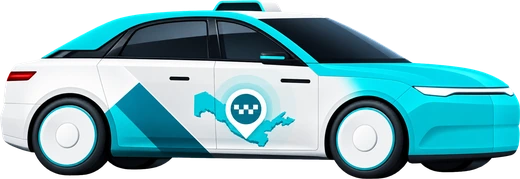
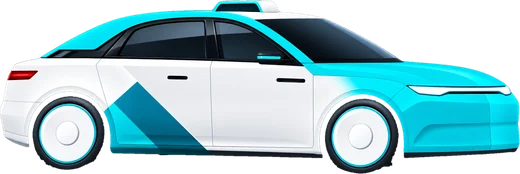
Web: Telegram groups carousel on the landing, new taxi car art
- New section between "Random mijoz" and FAQ: official channel and route groups
  (Namangan, Samarqand, Andijon, Farg'ona <-> Toshkent), each card showing a
  landmark of both cities (Wikimedia Commons, credited under the section).
  Cards drift as an endless strip (rAF + transform), ease to a stop on hover,
  can be dragged, stepped with arrows and reached by keyboard.
- Testimonials hidden for now (demo reviews) behind SHOW_TESTIMONIALS.
- taxi-car.png/.webp/-sm.webp replaced with the new car render (background cut out).

diff --git a/apps/web/src/components/landing/TelegramCommunities.jsx b/apps/web/src/components/landing/TelegramCommunities.jsx
@@ -1,0 +1,328 @@
+import { useEffect, useRef, useState } from 'react'
+import { ArrowLeft, ArrowRight, ArrowUpRight, Megaphone, Send, Users } from 'lucide-react'
+import { t } from '../../i18n'
+
+/* Telegram guruh va kanallarimiz — har bir karta yo‘nalishning ikki shahridagi mashhur joy
+   rasmi bilan (yuqorida — qayerdan, pastda — qayerga). Har bir kartada Toshkent boshqa joy bilan.
+   Kartalar to‘xtovsiz suzuvchi lenta: ro‘yxat ikki nusxada, siljish rAF orqali transform bilan
+   (subpiksel — silliq), bir nusxa o‘tganda boshiga sezilmasdan qaytadi. Sichqoncha ustiga kelsa
+   asta to‘xtaydi; barmoq/sichqoncha bilan surish va ← → tugmalari ishlaydi.
+   Rasmlar: Wikimedia Commons (CC0 / CC BY / CC BY-SA) — mualliflar bo‘lim ostida ko‘rsatiladi. */
+const PLACES = {
+  tv: { src: '/routes/toshkent-teleminora.webp', label: 'Toshkent teleminorasi', credit: 'Nikol Khagay (CC BY-SA 4.0)' },
+  nest: { src: '/routes/toshkent-nest-one.webp', label: 'Nest One, Toshkent Siti', credit: 'ShNajimova (CC BY 4.0)' },
+  imom: { src: '/routes/toshkent-hazrati-imom.webp', label: 'Hazrati Imom majmuasi', credit: 'Bgag (CC0)' },
+  minor: { src: '/routes/toshkent-minor.webp', label: 'Minor masjidi', credit: 'Yuriy Pavlovich (CC0)' },
+  chorsu: { src: '/routes/toshkent-chorsu.webp', label: 'Chorsu bozori', credit: 'Adam Harangozó (CC BY-SA 4.0)' },
+  citypark: { src: '/routes/toshkent-siti-bogi.webp', label: 'Toshkent Siti bog‘i', credit: 'Mysportedit (CC BY-SA 4.0)' },
+  registon: { src: '/routes/samarqand-registon.webp', label: 'Registon maydoni', credit: 'Gustavo Jeronimo (CC BY 2.0)' },
+  poikalon: { src: '/routes/buxoro-poi-kalon.webp', label: 'Poi Kalon, Buxoro', credit: 'Fulvio Spada (CC BY-SA 2.0)' },
+  namangan: { src: '/routes/namangan-mulla-qirgiz.webp', label: 'Mulla Qirg‘iz madrasasi', credit: 'Ziqo (CC BY-SA 4.0)' },
+  andijon: { src: '/routes/andijon-jome.webp', label: 'Devonaboy jome masjidi', credit: 'Petar Milošević (CC BY-SA 4.0)' },
+  bobur: { src: '/routes/andijon-bobur-bogi.webp', label: 'Bobur bog‘i, Andijon', credit: 'Arina Pan (CC BY-SA 4.0)' },
+  fargona: { src: '/routes/fargona-xudoyorxon.webp', label: 'Xudoyorxon o‘rdasi, Qo‘qon', credit: 'Bobyrr (CC BY-SA 4.0)' },
+}
+
+const COMMUNITIES = [
+  { kind: 'channel', handle: 'taxiline_uzbekistan', title: 'TaxiLine rasmiy kanali', top: 'poikalon', bottom: 'citypark' },
+  { kind: 'group', handle: 'namangan_toshkent_taxiline', from: 'Namangan', to: 'Toshkent', top: 'namangan', bottom: 'tv' },
+  { kind: 'group', handle: 'samarqand_toshkent_taxiline', from: 'Samarqand', to: 'Toshkent', top: 'registon', bottom: 'nest' },
+  { kind: 'group', handle: 'andijon_toshkent_taxiline', from: 'Andijon', to: 'Toshkent', top: 'andijon', bottom: 'imom' },
+  { kind: 'group', handle: 'toshkent_andijon_taxiline', from: 'Toshkent', to: 'Andijon', top: 'chorsu', bottom: 'bobur' },
+  { kind: 'group', handle: 'fargona_toshkent_taxiline', from: 'Farg‘ona', to: 'Toshkent', top: 'fargona', bottom: 'minor' },
+]
+
+// Rasmdagidek "suyuq" shakllar: yuqori rasmning o‘ng-pastki burchagi, pastki rasmning
+// chap-yuqori burchagi yumshoq egri bilan kesilgan — ikkalasi bir-biriga oqib o‘tadi.
+const CLIP_TOP = 'tl-clip-top'
+const CLIP_BOTTOM = 'tl-clip-bottom'
+
+function ClipDefs() {
+  return (
+    <svg aria-hidden="true" width="0" height="0" className="absolute">
+      <defs>
+        <clipPath id={CLIP_TOP} clipPathUnits="objectBoundingBox">
+          <path d="M0.07,0 H0.93 Q1,0 1,0.06 V0.5 C1,0.68 0.9,0.74 0.74,0.78 C0.56,0.82 0.5,1 0.3,1 H0.07 Q0,1 0,0.94 V0.06 Q0,0 0.07,0 Z" />
+        </clipPath>
+        <clipPath id={CLIP_BOTTOM} clipPathUnits="objectBoundingBox">
+          <path d="M0.93,1 H0.07 Q0,1 0,0.94 V0.5 C0,0.32 0.1,0.26 0.26,0.22 C0.44,0.18 0.5,0 0.7,0 H0.93 Q1,0 1,0.06 V0.94 Q1,1 0.93,1 Z" />
+        </clipPath>
+      </defs>
+    </svg>
+  )
+}
+
+function Card({ item, index, clone }) {
+  const top = PLACES[item.top]
+  const bottom = PLACES[item.bottom]
+  const official = item.kind === 'channel'
+  const title = official ? t(item.title) : `${t(item.from)} — ${t(item.to)}`
+  const Icon = official ? Megaphone : Users
+
+  return (
+    <a
+      href={`https://t.me/${item.handle}`}
+      target="_blank"
+      rel="noopener noreferrer"
+      draggable={false}
+      // Lentaning ikkinchi nusxasi faqat bezak: ekran o‘quvchi va Tab uni o‘tkazib yuboradi.
+      aria-hidden={clone ? 'true' : undefined}
+      tabIndex={clone ? -1 : undefined}
+      aria-label={`${title} — ${official ? t('Telegram kanal') : t('Telegram guruh')}`}
+      className={`group relative block aspect-[4/5] w-[78vw] max-w-[340px] shrink-0 select-none overflow-hidden rounded-[28px] outline-none transition-transform duration-500 ease-[cubic-bezier(.22,.8,.3,1)] hover:-translate-y-1 focus-visible:ring-2 focus-visible:ring-brand sm:w-[320px] 2xl:w-[380px] 2xl:max-w-[380px] bg-white shadow-[0_14px_34px_-18px_rgba(15,29,42,0.28)] ring-1 ring-line`}
+    >
+      {/* Yuqori rasm — qayerdan */}
+      <div className="absolute inset-x-2.5 top-2.5 h-[60%] overflow-hidden" style={{ clipPath: `url(#${CLIP_TOP})` }}>
+        <img
+          src={top.src}
+          alt={t(top.label)}
+          loading="lazy"
+          decoding="async"
+          draggable={false}
+          className="h-full w-full object-cover transition-transform duration-700 ease-out group-hover:scale-[1.06]"
+        />
+        <div aria-hidden="true" className="absolute inset-0 bg-[linear-gradient(180deg,rgba(15,20,28,0.25)_0%,transparent_30%,transparent_45%,rgba(15,20,28,0.7)_100%)]" />
+      </div>
+
+      {/* Pastki rasm — qayerga */}
+      <div className="absolute bottom-2.5 right-2.5 h-[46%] w-[74%] overflow-hidden" style={{ clipPath: `url(#${CLIP_BOTTOM})` }}>
+        <img
+          src={bottom.src}
+          alt={t(bottom.label)}
+          loading="lazy"
+          decoding="async"
+          draggable={false}
+          className="h-full w-full object-cover transition-transform duration-700 ease-out group-hover:scale-[1.06]"
+        />
+      </div>
+
+      {/* Yuqori qator: joy nomi + strelka */}
+      <span className="absolute left-5 top-5 max-w-[70%] truncate rounded-full bg-white/90 px-3 py-1.5 text-[11.5px] font-semibold text-ink backdrop-blur 2xl:text-[13px]">
+        {t(top.label)}
+      </span>
+      <span className="absolute right-5 top-5 flex h-9 w-9 items-center justify-center rounded-full bg-white text-ink transition-colors duration-300 group-hover:bg-brand 2xl:h-10 2xl:w-10">
+        <ArrowUpRight className="h-4 w-4 transition-transform duration-300 group-hover:-translate-y-0.5 group-hover:translate-x-0.5" />
+      </span>
+
+      {/* Sarlavha — yuqori rasmning pastki chap qismida */}
+      <div className="absolute left-5 right-[38%] top-[34%] text-white">
+        <span className="inline-flex items-center gap-1.5 text-[12px] font-bold uppercase tracking-[0.08em] text-white/80">
+          <Icon className="h-3.5 w-3.5" />
+          {String(index + 1).padStart(2, '0')}/ {official ? t('Rasmiy kanal') : t('Guruh')}
+        </span>
+        <h3 className="mt-1 text-[22px] font-extrabold leading-[1.1] tracking-tight [text-shadow:0_2px_14px_rgba(0,0,0,0.35)] 2xl:text-[27px]">{title}</h3>
+      </div>
+
+      {/* Pastki chap: qo‘shilish tugmasi */}
+      <span
+        className={`absolute bottom-[19%] left-5 inline-flex h-10 items-center gap-2 rounded-full px-4 text-[13px] font-bold shadow-[0_10px_24px_-12px_rgba(15,29,42,0.45)] transition-colors duration-300 2xl:h-11 2xl:text-[14px] bg-white text-ink group-hover:bg-ink group-hover:text-white`}
+      >
+        <Send className="h-4 w-4" />
+        {official ? t('Obuna bo‘lish') : t('Qo‘shilish')}
+        <span aria-hidden="true" className="h-1.5 w-1.5 rounded-full bg-brand" />
+      </span>
+
+      {/* Pastki rasm yorlig‘i */}
+      <span className="absolute bottom-5 right-5 max-w-[60%] truncate rounded-full bg-white/90 px-3 py-1.5 text-[11.5px] font-semibold text-ink backdrop-blur 2xl:text-[13px]">
+        {t(bottom.label)}
+      </span>
+    </a>
+  )
+}
+
+const SPEED = 38 // px/soniya
+const STEP_MS = 650
+
+export function TelegramCommunities() {
+  const sectionRef = useRef(null)
+  const viewportRef = useRef(null)
+  const trackRef = useRef(null)
+  const visibleRef = useRef(false)
+  // Animatsiya holati React'dan tashqarida — har kadrda qayta chizish bo‘lmasin.
+  const motion = useRef({ offset: 0, speed: 0, hover: false, drag: null, tween: null, moved: false })
+  const [shown, setShown] = useState(false)
+
+  // Ko‘rinishga kirganda yumshoq paydo bo‘ladi; ekrandan chiqsa lenta to‘xtaydi.
+  useEffect(() => {
+    const el = sectionRef.current
+    if (!el) return undefined
+    const io = new IntersectionObserver(
+      ([e]) => {
+        visibleRef.current = e.isIntersecting
+        if (e.isIntersecting) setShown(true)
+      },
+      { threshold: 0.1 },
+    )
+    io.observe(el)
+    return () => io.disconnect()
+  }, [])
+
+  useEffect(() => {
+    const reduce = window.matchMedia?.('(prefers-reduced-motion: reduce)').matches
+    const m = motion.current
+    let raf = 0
+    let last = performance.now()
+
+    const loop = (now) => {
+      raf = requestAnimationFrame(loop)
+      const dt = Math.min(now - last, 64) / 1000
+      last = now
+      const track = trackRef.current
+      if (!track || !visibleRef.current) return
+      // Bir nusxaning uzunligi: ikkinchi nusxaning birinchi kartasigacha bo‘lgan masofa.
+      const period = track.children[COMMUNITIES.length].offsetLeft - track.children[0].offsetLeft
+      if (period <= 0) return
+
+      // Tezlik keskin emas, asta o‘zgaradi — to‘xtash va qayta yurish ham silliq.
+      const target = reduce || m.hover || m.drag || document.hidden ? 0 : SPEED
+      m.speed += (target - m.speed) * Math.min(1, dt * 3)
+
+      if (m.tween) {
+        const p = Math.min(1, (now - m.tween.start) / STEP_MS)
+        m.offset = m.tween.from + (m.tween.to - m.tween.from) * (1 - (1 - p) ** 3)
+        if (p >= 1) m.tween = null
+      } else if (!m.drag) {
+        m.offset += m.speed * dt
+      }
+
+      // Cheksiz aylanish: [0, period) oralig‘ida ushlaymiz, surish/tugma holatini ham birga siljitamiz.
+      const wrapped = ((m.offset % period) + period) % period
+      const shift = wrapped - m.offset
+      if (shift) {
+        m.offset = wrapped
+        if (m.tween) {
+          m.tween.from += shift
+          m.tween.to += shift
+        }
+        if (m.drag) m.drag.offset += shift
+      }
+      track.style.transform = `translate3d(${-m.offset}px,0,0)`
+    }
+    raf = requestAnimationFrame(loop)
+    return () => cancelAnimationFrame(raf)
+  }, [])
+
+  // ← → : bir karta qadamida yumshoq suriladi (ketma-ket bosilsa qadamlar qo‘shiladi).
+  function step(dir) {
+    const track = trackRef.current
+    if (!track) return
+    const m = motion.current
+    const width = track.children[1].offsetLeft - track.children[0].offsetLeft
+    const base = m.tween ? m.tween.to : m.offset
+    m.tween = { from: m.offset, to: base + dir * width, start: performance.now() }
+  }
+
+  // Sichqoncha yoki barmoq bilan surish. 6px dan ko‘p surilsa — bu bosish emas, havola ochilmaydi.
+  function onPointerDown(e) {
+    if (e.pointerType === 'mouse' && e.button !== 0) return
+    const m = motion.current
+    m.tween = null
+    m.moved = false
+    m.drag = { x: e.clientX, offset: m.offset, id: e.pointerId }
+  }
+  function onPointerMove(e) {
+    const m = motion.current
+    if (!m.drag || m.drag.id !== e.pointerId) return
+    const dx = e.clientX - m.drag.x
+    if (!m.moved && Math.abs(dx) > 6) {
+      m.moved = true
+      viewportRef.current?.setPointerCapture(e.pointerId)
+    }
+    if (m.moved) m.offset = m.drag.offset - dx
+  }
+  function onPointerUp(e) {
+    const m = motion.current
+    if (m.drag?.id === e.pointerId) m.drag = null
+  }
+  function onClickCapture(e) {
+    if (!motion.current.moved) return
+    e.preventDefault()
+    e.stopPropagation()
+    motion.current.moved = false
+  }
+
+  return (
+    <section ref={sectionRef} id="telegram" aria-label={t('Telegram guruh va kanallarimiz')} className="mx-auto max-w-site scroll-mt-24 px-3 pb-20 sm:px-6">
+      <ClipDefs />
+      <div
+        className={`relative overflow-hidden rounded-[32px] bg-white px-4 py-10 ring-1 ring-line transition-all duration-1000 ease-[cubic-bezier(.22,.8,.3,1)] sm:rounded-[40px] sm:px-10 sm:py-14 lg:px-14 2xl:px-20 2xl:py-20 ${
+          shown ? 'translate-y-0 opacity-100' : 'translate-y-8 opacity-0'
+        }`}
+      >
+        {/* Katta ekranda ikki qator: "… va" / "rasmiy kanalimiz — yo‘nalishingiz bo‘yicha" */}
+        <h2 className="text-[28px] font-extrabold leading-[1.3] tracking-tight text-ink sm:text-[40px] 2xl:text-[52px]">
+          <span className="whitespace-nowrap rounded-full border-2 border-brand/40 px-3 py-0.5">{t('Telegram guruhlarimiz')}</span> {t('va')}
+          <br className="hidden xl:block" />{' '}
+          <span className="xl:whitespace-nowrap">
+            <span className="whitespace-nowrap rounded-full border-2 border-brand/40 bg-brand-soft px-3 py-0.5 text-brand-dark">{t('rasmiy kanalimiz')}</span>{' '}
+            {/* Tire keyingi so‘zdan ajralmasin */}
+            {t('— yo‘nalishingiz bo‘yicha').replace('— ', '— ')}
+          </span>
+        </h2>
+        <div className="mt-4 flex flex-wrap items-end justify-between gap-6">
+          <p className="max-w-[560px] text-[15px] leading-[1.55] text-muted sm:text-[16px] 2xl:text-[18px]">
+            {t('Guruhlarda haydovchi va yo‘lovchilar bir-birini tez topadi, kanalda esa yangiliklar, aksiyalar va sovg‘ali o‘yinlar e’lon qilinadi.')}
+          </p>
+
+          <div className="flex gap-2">
+              <button
+                type="button"
+                onClick={() => step(-1)}
+                aria-label={t('Oldingi')}
+                className="flex h-12 w-12 items-center justify-center rounded-full border-2 border-ink/10 text-ink transition hover:border-ink hover:bg-ink hover:text-white"
+              >
+                <ArrowLeft className="h-5 w-5" />
+              </button>
+              <button
+                type="button"
+                onClick={() => step(1)}
+                aria-label={t('Keyingi')}
+                className="flex h-12 w-12 items-center justify-center rounded-full border-2 border-ink/10 text-ink transition hover:border-ink hover:bg-ink hover:text-white"
+              >
+                <ArrowRight className="h-5 w-5" />
+              </button>
+          </div>
+        </div>
+
+        <div
+          ref={viewportRef}
+          onPointerEnter={(e) => {
+            if (e.pointerType === 'mouse') motion.current.hover = true
+          }}
+          onPointerLeave={() => {
+            motion.current.hover = false
+          }}
+          onPointerDown={onPointerDown}
+          onPointerMove={onPointerMove}
+          onPointerUp={onPointerUp}
+          onPointerCancel={onPointerUp}
+          onClickCapture={onClickCapture}
+          onFocus={(e) => {
+            // Tab bilan kelingan karta: brauzer o‘zi aylantirgan scroll'ni bekor qilib,
+            // kartani lentaning o‘z siljishi bilan ko‘rinishga olib kelamiz.
+            const m = motion.current
+            m.hover = true
+            const card = e.target.closest('a')
+            const track = trackRef.current
+            if (viewportRef.current) viewportRef.current.scrollLeft = 0
+            if (card && track) m.tween = { from: m.offset, to: card.offsetLeft - track.children[0].offsetLeft, start: performance.now() }
+          }}
+          onBlur={() => {
+            motion.current.hover = false
+          }}
+          className="-mx-4 mt-2 cursor-grab touch-pan-y overflow-hidden py-6 active:cursor-grabbing sm:-mx-10 sm:mt-4 lg:-mx-14 2xl:-mx-20"
+        >
+          <div ref={trackRef} className="flex w-max gap-4 px-4 will-change-transform sm:gap-5 sm:px-10 lg:px-14 2xl:px-20">
+            {[...COMMUNITIES, ...COMMUNITIES].map((item, i) => (
+              <Card key={`${item.handle}-${i}`} item={item} index={i % COMMUNITIES.length} clone={i >= COMMUNITIES.length} />
+            ))}
+          </div>
+        </div>
+
+        <p className="mt-6 text-[11.5px] leading-[1.5] text-ink/40">
+          {t('Rasmlar: Wikimedia Commons')} — {Object.values(PLACES).map((p) => p.credit).join(', ')}
+        </p>
+      </div>
+    </section>
+  )
+}

diff --git a/apps/web/src/pages/Landing.jsx b/apps/web/src/pages/Landing.jsx
@@ -25,6 +25,7 @@ import { TELEGRAM_BOT } from '../components/auth/AuthChrome'
 import { ScrollTopButton, SiteFooter, SiteHeader } from '../components/landing/SiteChrome'
 import { Regions } from '../components/landing/Regions'
 import { Testimonials } from '../components/landing/Testimonials'
+import { TelegramCommunities } from '../components/landing/TelegramCommunities'
 import { Logo, Wordmark } from '../components/ui/Logo'
 import { LanguageChip } from '../components/ui/LanguagePicker'
 import { SiteMobileMenu } from '../components/landing/SiteMobileMenu'
@@ -43,6 +44,9 @@ import { isCompletePhoneUz, maskLocalPhoneUz, maskPhoneUz, toE164Uz } from '../l
 import { siteJsonLd } from '../seo/pages'
 import { useJsonLd, useSeo } from '../seo/useSeo'
 import { t } from '../i18n'
+
+// Foydalanuvchilar fikrlari bo‘limi (demo sharhlar) — hozircha yashirin.
+const SHOW_TESTIMONIALS = false
 
 // `highlight` — ajralib turadigan band.
 const NAV = [
@@ -1646,8 +1650,11 @@ export default function Landing() {
         <Join />
         <Business />
         <Promotions />
-        <Testimonials />
+        {/* Foydalanuvchilar fikrlari hozircha o‘chiq — sharhlar namuna (demo). Haqiqiy fikrlar
+            tayyor bo‘lgach (keyinchalik admin paneldan boshqariladi) qayta yoqiladi. */}
+        {SHOW_TESTIMONIALS ? <Testimonials /> : null}
         <RandomClient />
+        <TelegramCommunities />
         <Faq />
         <Regions />
       </main>
